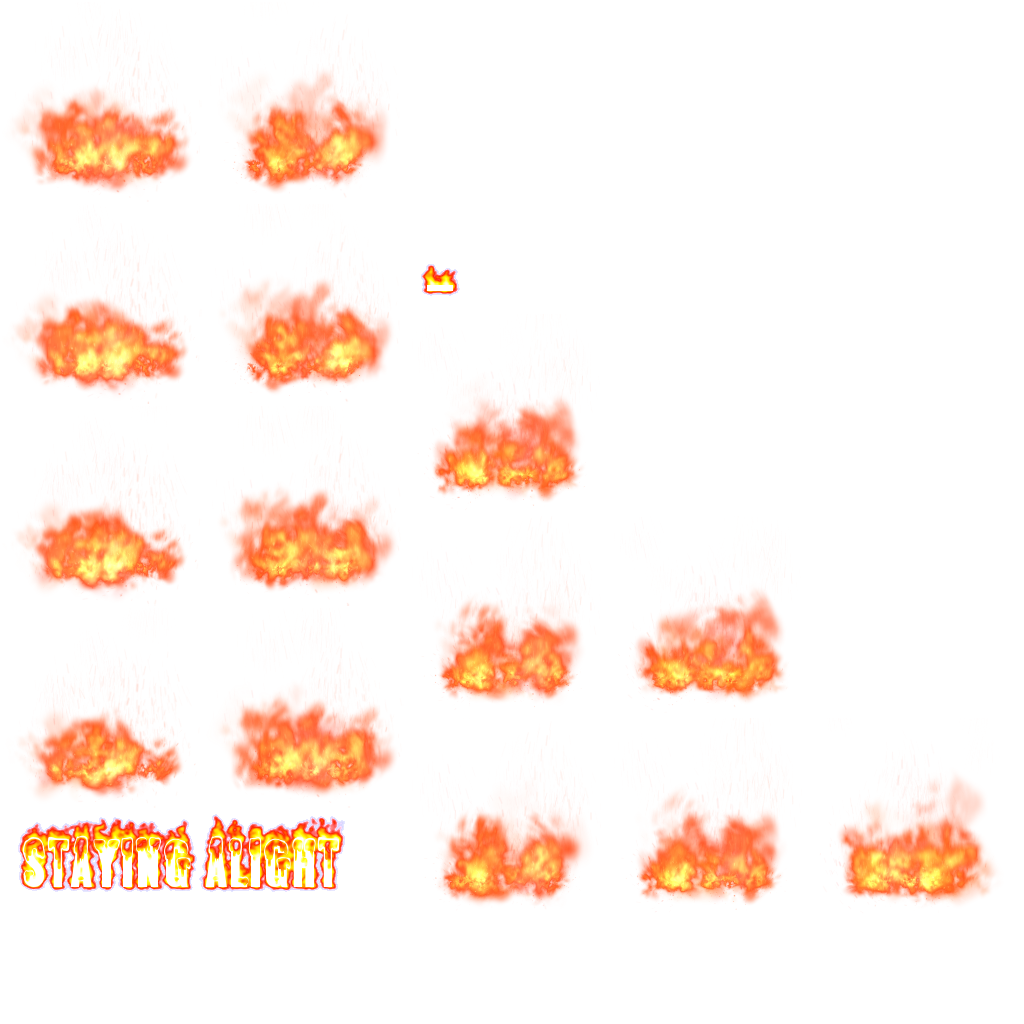
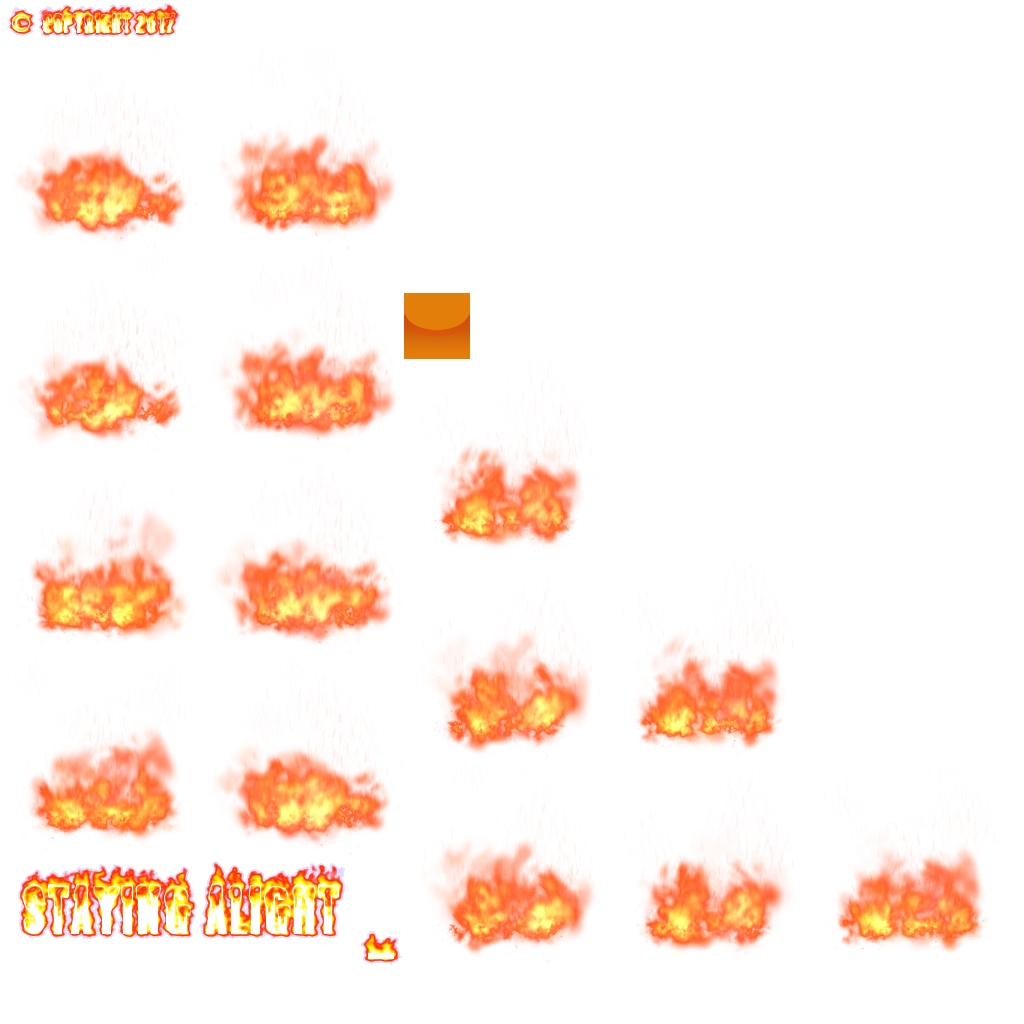
Tutorial 9, Scene2d on loading screen

diff --git a/core/src/com/box2d/tutorial/views/LoadingScreen.java b/core/src/com/box2d/tutorial/views/LoadingScreen.java
@@ -6,18 +6,31 @@ import com.badlogic.gdx.graphics.GL20;
 import com.badlogic.gdx.graphics.g2d.Animation;
 import com.badlogic.gdx.graphics.g2d.SpriteBatch;
 import com.badlogic.gdx.graphics.g2d.TextureAtlas;
+import com.badlogic.gdx.graphics.g2d.TextureAtlas.AtlasRegion;
 import com.badlogic.gdx.graphics.g2d.TextureRegion;
-import com.badlogic.gdx.utils.Array;
+import com.badlogic.gdx.scenes.scene2d.Stage;
+import com.badlogic.gdx.scenes.scene2d.ui.Image;
+import com.badlogic.gdx.scenes.scene2d.ui.Table;
+import com.badlogic.gdx.scenes.scene2d.utils.TiledDrawable;
+import com.badlogic.gdx.utils.Align;
+import com.badlogic.gdx.utils.viewport.ScreenViewport;
 import com.box2d.tutorial.Box2DTutorial;
+import com.box2d.tutorial.LoadingBarPart;
 
 public class LoadingScreen implements Screen {
 
     private Box2DTutorial parent;
+    private Stage stage;
     private TextureAtlas atlas;
     private TextureRegion title;
-    private TextureRegion dash;
-    private SpriteBatch sb;
+    private AtlasRegion dash;
+    private AtlasRegion background;
+    private AtlasRegion copyright;
     private Animation<TextureRegion> flameAnimation;
+    private Image titleImage;
+    private Image copyrightImage;
+    private Table table;
+    private Table loadingTable;
 
     public final int IMAGE = 0;		// loading images
     public final int FONT = 1;		// loading fonts
@@ -29,16 +42,50 @@ public class LoadingScreen implements Screen {
 
     // timer for exiting loading screen
     public float countDown = 5f; // 5 seconds of waiting before menu screen
-    private float stateTime;
 
     public LoadingScreen(Box2DTutorial box2DTutorial) {
         this.parent = box2DTutorial;
-        sb = new SpriteBatch();
-        sb.setBlendFunction(GL20.GL_SRC_ALPHA,GL20.GL_ONE);
+        stage = new Stage(new ScreenViewport());
+
+        loadAssets();
+        // initiate queueing of images but don't start loading
+        parent.assMan.queueAddImages();
+        System.out.println("Loading images...");
+
     }
 
     @Override
     public void show() {
+        titleImage = new Image(title);
+        copyrightImage = new Image(copyright);
+
+        table = new Table();
+        table.setFillParent(true);
+        table.setDebug(true);
+        table.setBackground(new TiledDrawable(background));
+
+        loadingTable = new Table();
+        loadingTable.add(new LoadingBarPart(dash,flameAnimation));
+        loadingTable.add(new LoadingBarPart(dash,flameAnimation));
+        loadingTable.add(new LoadingBarPart(dash,flameAnimation));
+        loadingTable.add(new LoadingBarPart(dash,flameAnimation));
+        loadingTable.add(new LoadingBarPart(dash,flameAnimation));
+        loadingTable.add(new LoadingBarPart(dash,flameAnimation));
+        loadingTable.add(new LoadingBarPart(dash,flameAnimation));
+        loadingTable.add(new LoadingBarPart(dash,flameAnimation));
+        loadingTable.add(new LoadingBarPart(dash,flameAnimation));
+        loadingTable.add(new LoadingBarPart(dash,flameAnimation));
+
+        table.add(titleImage).align(Align.center).pad(10,0,0,0).colspan(10);
+        table.row();
+        table.add(loadingTable).width(400);
+        table.row();
+        table.add(copyrightImage).align(Align.center).pad(200,0,0,0).colspan(10);
+
+        stage.addActor(table);
+    }
+
+    private void loadAssets() {
         // load loading images and wait until finished
         parent.assMan.queueAddLoadingImages();
         parent.assMan.manager.finishLoading();
@@ -47,15 +94,12 @@ public class LoadingScreen implements Screen {
         atlas = parent.assMan.manager.get("images/loading.atlas");
         title = atlas.findRegion("staying-alight-logo");
         dash = atlas.findRegion("loading-dash");
+        background = atlas.findRegion("flamebackground");
+        copyright = atlas.findRegion("copyright");
 
         // get flame animation for progress bar
         flameAnimation = new Animation(0.07f, atlas.findRegions("flames") , Animation.PlayMode.LOOP);
 
-        // initiate queueing of images but don't start loading
-        parent.assMan.queueAddImages();
-        System.out.println("Loading images...");
-
-        stateTime = 0f;
     }
 
     @Override
@@ -64,25 +108,19 @@ public class LoadingScreen implements Screen {
         Gdx.gl.glBlendFunc(GL20.GL_SRC_ALPHA,GL20.GL_ONE_MINUS_SRC_ALPHA);
         Gdx.gl.glClear(GL20.GL_COLOR_BUFFER_BIT);
 
-        stateTime+=delta;
-        TextureRegion currentFrame = flameAnimation.getKeyFrame(stateTime,true);
-
-        // start spritebatch and draw logo
-        sb.begin();
-        drawLoadingBar(currentLoadingStage*2,currentFrame);
-        sb.draw(title,135,250);
-        sb.end();
-
-        // Check if asset manager has finished loading
         if(parent.assMan.manager.update()) {
             currentLoadingStage +=1;
+            if (currentLoadingStage <=5) {
+                loadingTable.getCells().get((currentLoadingStage-1)*2).getActor().setVisible(true);
+                loadingTable.getCells().get((currentLoadingStage-1)*2+1).getActor().setVisible(true);
+            }
             switch (currentLoadingStage) {
                 case FONT:
-                    System.out.println("Loading fonts...");
+                    System.out.println("Loading fonts....");
                     parent.assMan.queueAddFonts();
                     break;
                 case PARTY:
-                    System.out.println("Loading particle effects...");
+                    System.out.println("Loading Particle Effects....");
                     parent.assMan.queueAddParticleEffects();
                     break;
                 case SOUND:
@@ -94,25 +132,19 @@ public class LoadingScreen implements Screen {
                     parent.assMan.queueAddMusic();
                     break;
                 case 5:
-                    System.out.println("Finished"); // all done
+                    System.out.println("Finished");
                     break;
             }
             if (currentLoadingStage > 5) {
-                countDown-=delta;
+                countDown -= delta;
                 currentLoadingStage = 5;
                 if (countDown < 0) {
                     parent.changeScreen(Box2DTutorial.MENU);
                 }
             }
         }
-
-    }
-
-    private void drawLoadingBar(int stage, TextureRegion currentFrame) {
-        for (int i = 0; i < stage; i++) {
-            sb.draw(currentFrame, 50 + (i*50), 150,50,50);
-            sb.draw(dash,35 + (i*50),140,80,80);
-        }
+        stage.act();
+        stage.draw();
     }
 
     @Override

diff --git a/core/src/com/box2d/tutorial/views/MenuScreen.java b/core/src/com/box2d/tutorial/views/MenuScreen.java
@@ -3,12 +3,15 @@ package com.box2d.tutorial.views;
 import com.badlogic.gdx.Gdx;
 import com.badlogic.gdx.Screen;
 import com.badlogic.gdx.graphics.GL20;
+import com.badlogic.gdx.graphics.g2d.TextureAtlas.AtlasRegion;
+import com.badlogic.gdx.graphics.g2d.TextureAtlas;
 import com.badlogic.gdx.scenes.scene2d.Actor;
 import com.badlogic.gdx.scenes.scene2d.Stage;
 import com.badlogic.gdx.scenes.scene2d.ui.Skin;
 import com.badlogic.gdx.scenes.scene2d.ui.Table;
 import com.badlogic.gdx.scenes.scene2d.ui.TextButton;
 import com.badlogic.gdx.scenes.scene2d.utils.ChangeListener;
+import com.badlogic.gdx.scenes.scene2d.utils.TiledDrawable;
 import com.badlogic.gdx.utils.viewport.ScreenViewport;
 import com.box2d.tutorial.Box2DTutorial;
 
@@ -17,6 +20,8 @@ public class MenuScreen implements Screen {
     private Box2DTutorial parent;
     private Stage stage;
     private Skin skin;
+    private TextureAtlas atlas;
+    private AtlasRegion background;
 
     public MenuScreen(Box2DTutorial box2DTutorial) {
         this.parent = box2DTutorial;
@@ -25,6 +30,8 @@ public class MenuScreen implements Screen {
         parent.assMan.queueAddSkin();
         parent.assMan.manager.finishLoading();
         skin = parent.assMan.manager.get("skin/glassy-ui.json");
+        atlas = parent.assMan.manager.get("images/loading.atlas");
+        background = atlas.findRegion("flamebackground");
     }
     @Override
     public void show() {
@@ -33,6 +40,7 @@ public class MenuScreen implements Screen {
         Table table = new Table();
         table.setFillParent(true);
         table.setDebug(true);
+        table.setBackground(new TiledDrawable(background));
         stage.addActor(table);
 
         TextButton newGame = new TextButton("New Game", skin);

diff --git a/core/src/com/box2d/tutorial/LoadingBarPart.java b/core/src/com/box2d/tutorial/LoadingBarPart.java
@@ -1,0 +1,42 @@
+package com.box2d.tutorial;
+
+import com.badlogic.gdx.graphics.GL20;
+import com.badlogic.gdx.graphics.g2d.Animation;
+import com.badlogic.gdx.graphics.g2d.Batch;
+import com.badlogic.gdx.graphics.g2d.TextureAtlas.AtlasRegion;
+import com.badlogic.gdx.graphics.g2d.TextureRegion;
+import com.badlogic.gdx.scenes.scene2d.Actor;
+
+public class LoadingBarPart extends Actor {
+
+    private AtlasRegion image;
+    private Animation<TextureRegion> flameAnimation;
+
+    private float stateTime;
+    private TextureRegion currentFrame;
+
+    public LoadingBarPart(AtlasRegion ar, Animation an) {
+        super();
+        image = ar;
+        flameAnimation = an;
+        this.setWidth(30);
+        this.setHeight(25);
+        this.setVisible(false);
+    }
+
+    @Override
+    public void draw(Batch batch, float parentAlpha) {
+        super.draw(batch, parentAlpha);
+        batch.draw(image, getX(), getY(), 30, 30);
+        batch.setBlendFunction(GL20.GL_SRC_ALPHA, GL20.GL_ONE);
+        batch.draw(currentFrame, getX()-5,getY(),40,40);
+        batch.setBlendFunction(GL20.GL_SRC_ALPHA,GL20.GL_ONE_MINUS_SRC_ALPHA);
+    }
+
+    @Override
+    public void act(float delta) {
+        super.act(delta);
+        stateTime +=delta;
+        currentFrame = flameAnimation.getKeyFrame(stateTime,true);
+    }
+}
